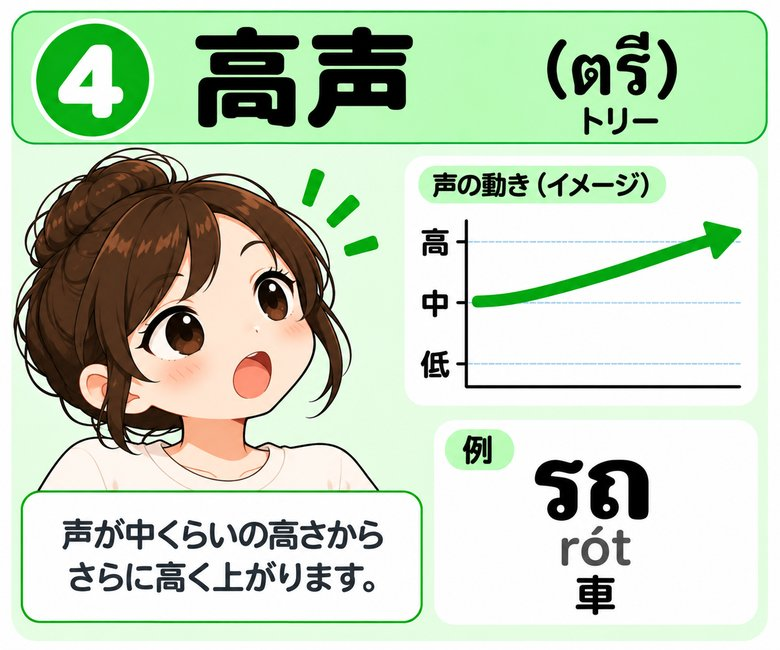
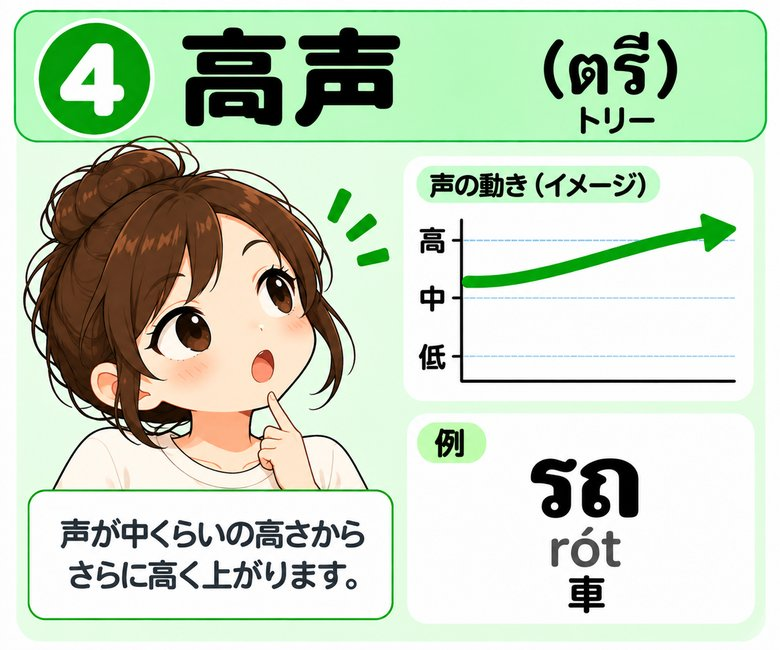
声調ページ: ④⑤イラストを表情が差別化された新バージョンに差し替え
- tone_card_high.jpg(高声)とtone_card_rising.jpg(上昇声)を、
  表情が③下降声と見分けやすくなった新バージョンに差し替え
  (テキスト内容・例文は変更なし、キャラクターの表情・ポーズのみ変更)
- バージョンを2026-10-01yに更新(app.html/sw.js同期)

Claude-Session: https://claude.ai/code/session_01943EUCWJXEw4xvu6FgakSF

Changed region(s): [[0.0, 0.0, 0.9846, 0.9846], [0.6769, 0.7077, 0.8308, 0.9538], [0.1846, 0.0923, 0.2154, 0.1231]]

diff --git a/app.html b/app.html
@@ -1427,7 +1427,7 @@ const fRO = s => s ? s.replace(/\{PR}/g, PT[st.gender].ro).replace(/\{PSR}/g, PT
 async function sto_get(k){ try{ const v=localStorage.getItem(k); return v?JSON.parse(v):null; }catch(e){ return null; } }
 async function sto_set(k,v){ try{ localStorage.setItem(k,JSON.stringify(v)); }catch(e){} }
 // アプリのバージョン。更新のたびにこの値を変更してください(日付など分かりやすいものでOK)
-const APP_VERSION = '2026-10-01x';
+const APP_VERSION = '2026-10-01y';
 {
   const vl=document.getElementById('verLabel');
   if(vl) vl.textContent='v'+APP_VERSION;

diff --git a/sw.js b/sw.js
@@ -1,7 +1,7 @@
 // Thai Pocket Cards Service Worker
 // NOTE: Bump SW_VERSION whenever app.html's APP_VERSION changes,
 // so returning users get the fresh file instead of a stale cached one.
-const SW_VERSION = '2026-10-01x';
+const SW_VERSION = '2026-10-01y';
 const CACHE_NAME = `taka-thaipocket-${SW_VERSION}`;
 
 const APP_SHELL = [
